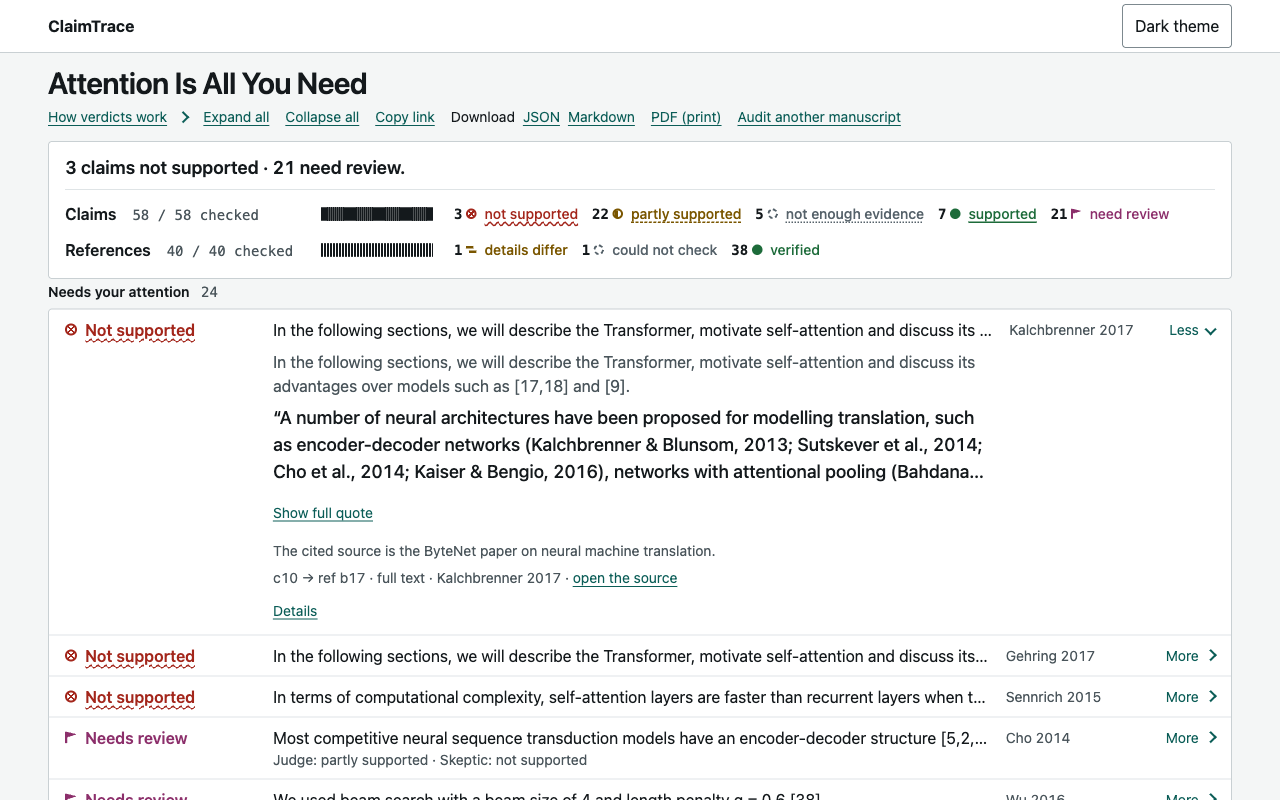
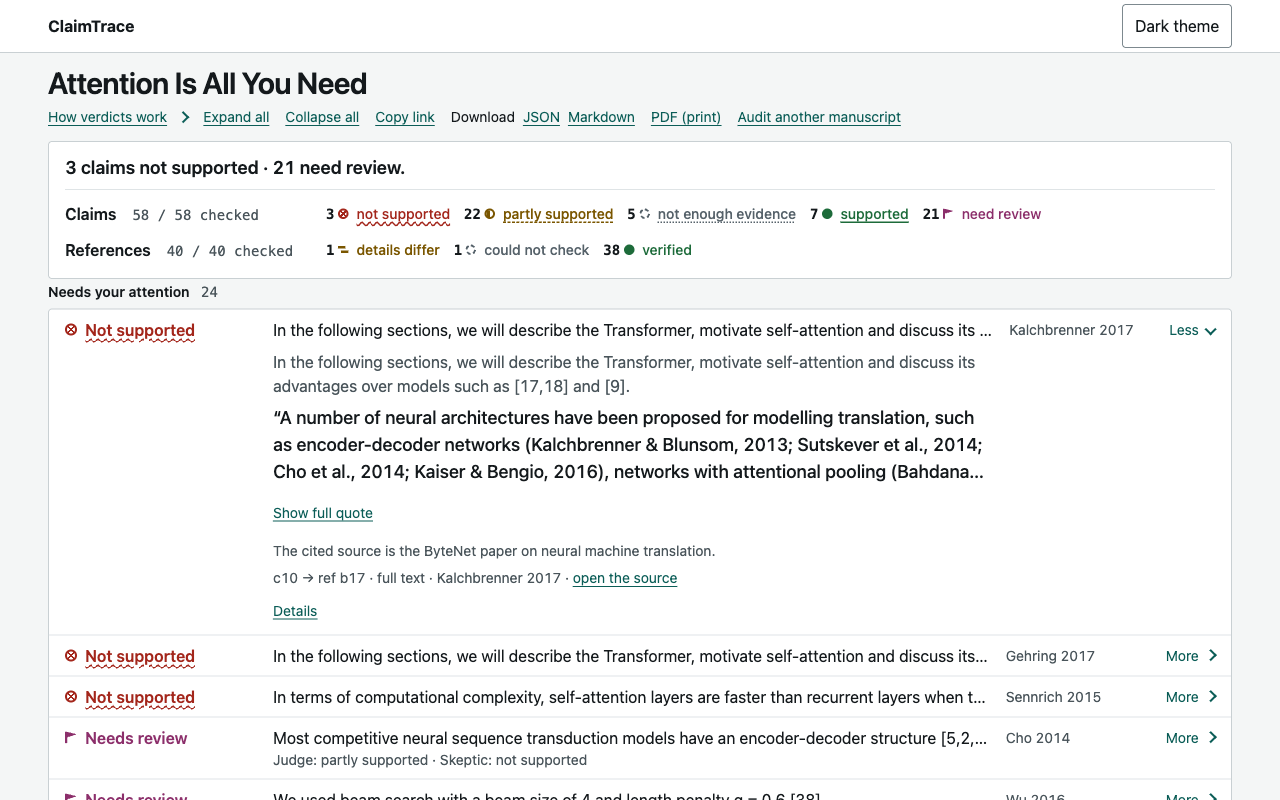
ui: morning cosmetics
- a finished section drops the tick ruler on desktop too (keeps "n / n checked"); the ruler
  shows only while that section is being checked
- the "Could not check" claim group is now "Not enough evidence" (same word as its counter)
- the "cite a missing or retracted reference" counter uses the dashed "Source not found" sign
- a claim's Details name the model beside Judge / Skeptic when the opinion carries `model`

Changed region(s): [[0.25, 0.25, 0.9062, 0.3438]]

diff --git a/claimtrace/web/static/app.js b/claimtrace/web/static/app.js
@@ -279,7 +279,7 @@ const refAttention = (a) => a.status !== "verified";
 // its reference is gone or its readers disagree.
 const claimKey = (c) => (refBad(c) ? "badref" : disagree(c) ? "review" : c.verdict);
 // counts shown beside the per-verdict ones (screen counters and print): [value, count, words, mark class]
-const claimExtras = (cs) => [["badref", cs.filter((c) => claimKey(c) === "badref").length, "cite a missing or retracted reference", "s-bad"],
+const claimExtras = (cs) => [["badref", cs.filter((c) => claimKey(c) === "badref").length, "cite a missing or retracted reference", "s-unknown"],
   ["review", cs.filter((c) => claimKey(c) === "review").length, "need review", "s-review"]].filter(([, n]) => n);
 // "Needs review" means the two readers disagree, nothing else: the backend's needs_review is also
 // true when only one model answered (or none), which is shown as "judge only" / "skeptic only"
@@ -295,7 +295,7 @@ const claimAttention = (c) => ["badref", "review", "unsupported"].includes(claim
 const CLAIM_GROUPS = [
   ["partly", "Partly supported", "s-partly v u-partly_supported", (c) => c.verdict === "partly_supported"],
   ["supported", "Supported", "s-ok v u-supported", (c) => c.verdict === "supported"],
-  ["unchecked", "Could not check", "s-unknown v u-insufficient_evidence", (c) => !["partly_supported", "supported"].includes(c.verdict)],
+  ["unchecked", "Not enough evidence", "s-unknown v u-insufficient_evidence", (c) => !["partly_supported", "supported"].includes(c.verdict)],
 ];
 // header order: "References · 38 verified · 1 differs · 1 unchecked"
 const REF_SHORT = { verified: "verified", metadata_mismatch: "differs", unchecked: "unchecked", not_found: "not found", retracted: "retracted" };
@@ -398,7 +398,7 @@ function details(key, props, ...children) {
 function opinion(role, o, shown) {
   if (!o) return el("div", { className: "well" }, el("h4", {}, role), el("p", {}, "No answer (model call failed)."));
   return el("div", { className: "well" },
-    el("h4", {}, role, mark(o.verdict, VERDICT)),
+    el("h4", {}, role, o.model ? el("span", { className: "model" }, ` · ${o.model}`) : null, mark(o.verdict, VERDICT)),
     o.rationale ? el("p", {}, o.rationale) : null,
     o.quote && o.quote !== shown ? el("p", { className: "quiet" }, `Other excerpt it quoted (not verified verbatim): “${o.quote}”`) : null);
 }
@@ -549,14 +549,15 @@ function counters(items, labels, prefix, valueOf, extras = []) {
   }));
 }
 
-// Readout meter: one tick per item, pending ticks while the total is known but not reached.
+// Readout meter: one tick per item, pending ticks while the total is known but not reached. Only
+// while checking: a finished section keeps its "n / n checked" text and drops the ruler.
 function meter(name, items, total, done, countsNode, waitNote) {
   const n = items.length;
   const of = total && total > n ? total : done ? n : null;
-  return el("div", { className: "meter" },
+  return el("div", { className: done ? "meter done" : "meter" },
     el("p", { className: "meter-head" }, el("strong", {}, name),
       el("span", { className: "n" }, of !== null ? `${n} / ${of} checked` : `${n} checked so far`)),
-    el("div", { className: (of || n) > 40 ? "ruler dense" : "ruler", role: "img", "aria-label": of !== null ? `${n} of ${of} checked` : `${n} checked so far` },
+    done ? null : el("div", { className: (of || n) > 40 ? "ruler dense" : "ruler", role: "img", "aria-label": of !== null ? `${n} of ${of} checked` : `${n} checked so far` },
       Array.from({ length: Math.max(of || 0, n) }, (_, i) => el("span", { className: i < n ? "tick" : "tick todo" }))),
     done ? countsNode : el("p", { className: "meter-note" }, waitNote));
 }

diff --git a/claimtrace/web/static/style.css b/claimtrace/web/static/style.css
@@ -316,6 +316,8 @@ progress { width: 100%; height: var(--space-2); accent-color: var(--color-accent
 .ruler { display: flex; gap: var(--tick-gap); height: var(--tick-height); min-width: 0; overflow: hidden; }
 .tick { flex: 1; background: var(--color-tick-done); border: var(--border-width) solid var(--color-tick-done); border-radius: var(--border-radius-sm); }
 .ruler.dense { gap: 0; }
+.meter.done { grid-template-columns: var(--col-meter-name) minmax(0, 1fr); }
+.well h4 .model { font-weight: var(--font-weight-normal); color: var(--color-text-secondary); overflow-wrap: anywhere; }
 .ruler.dense .tick:not(.todo) { border-width: 0; }
 .tick { min-width: 0; }
 .tick.todo { background: transparent; border-color: var(--color-tick-todo); } /* hollow: shape differs too */

diff --git a/tests/adversarial/test_web_morning.py b/tests/adversarial/test_web_morning.py
@@ -1,0 +1,56 @@
+"""Morning cosmetics: no ruler once a section is checked, "Not enough evidence" group, the
+missing-reference counter's sign, and the model name in a claim's Details."""
+
+from test_web_disagreement import claim, report
+from test_web_report_view import find, render_calls, running, text
+
+
+def rulers(meter) -> list:
+    return find(meter, lambda n: n["cls"].split()[:1] == ["ruler"])
+
+
+def test_ruler_only_while_a_section_is_being_checked():
+    r = report()
+    done = render_calls([[r.model_dump(mode="json")]])
+    for m in done["meters"]["kids"]:
+        assert not rulers(m) and "done" in m["cls"].split()
+    assert "5 / 5 checked" in text(done["meters"]) and "2 / 2 checked" in text(done["meters"])
+    live = render_calls([[r.model_copy(update={"complete": False}).model_dump(mode="json")]])
+    claims_meter = live["meters"]["kids"][0]
+    assert rulers(claims_meter) and "done" not in claims_meter["cls"].split()
+    live = render_calls(
+        [[r.model_copy(update={"complete": False}).model_dump(mode="json"), running("claims")]]
+    )
+    assert rulers(live["meters"]["kids"][0])
+
+
+def test_could_not_check_group_is_called_not_enough_evidence():
+    r = report(bad_ref=False)
+    r.claims.append(claim(6, "insufficient_evidence", "insufficient_evidence"))
+    out = render_calls([[r.model_dump(mode="json")]])
+    groups = [text(g) for g in find(out["claims"], lambda n: n["cls"] == "fine")]
+    assert any(g.startswith("Not enough evidence") for g in groups), groups
+    assert not any("Could not check" in g for g in groups)
+
+
+def test_missing_reference_counter_uses_the_source_not_found_sign():
+    out = render_calls([[report().model_dump(mode="json")]])
+    (btn,) = [
+        b
+        for b in find(out["meters"]["kids"][0], lambda n: n["tag"] == "button")
+        if "missing or retracted" in text(b)
+    ]
+    (m,) = find(btn, lambda n: "mark" in n["cls"].split())
+    assert "s-unknown" in m["cls"].split() and "s-bad" not in m["cls"].split()
+
+
+def test_details_name_the_model_when_the_opinion_has_one():
+    data = report(bad_ref=False).model_dump(mode="json")
+    data["claims"][0]["skeptic"]["model"] = "kimi-k2.7-code-highspeed"
+    data["claims"][0]["judge"]["model"] = None  # older reports: absent or null -> nothing shown
+    open_c1 = 'openKeys.add("row-c:c1:1"); openKeys.add("why-c:c1:1"); renderReport(...lastRender);'
+    out = render_calls([[data], open_c1])
+    h4s = [text(h) for h in find(out["claims"], lambda n: n["tag"] == "h4")]
+    wells = {r: next(h for h in h4s if h.startswith(r)) for r in ("Judge", "Skeptic")}
+    assert wells["Skeptic"].startswith("Skeptic · kimi-k2.7-code-highspeed")
+    assert "·" not in wells["Judge"] and "None" not in wells["Judge"]

diff --git a/tests/adversarial/test_web_single_model.py b/tests/adversarial/test_web_single_model.py
@@ -84,7 +84,11 @@ def test_all_judge_only_report_is_not_needs_review_on_screen():
     # attention: the unsupported claim and the one citing a missing reference, not all 7
     assert attention_ids(out) == ["1", "7"]
     groups = [text(g) for g in find(out["claims"], lambda n: n["cls"] == "fine")]
-    assert [g.split("·")[0] for g in groups] == ["Partly supported", "Supported", "Could not check"]
+    assert [g.split("·")[0] for g in groups] == [
+        "Partly supported",
+        "Supported",
+        "Not enough evidence",
+    ]
     assert "· 2" in groups[0] and "· 2" in groups[1] and "· 1" in groups[2]
     tags = {text(t) for t in find(out["claims"], lambda n: "tag" in n["cls"].split())}
     assert "judge only" in tags
